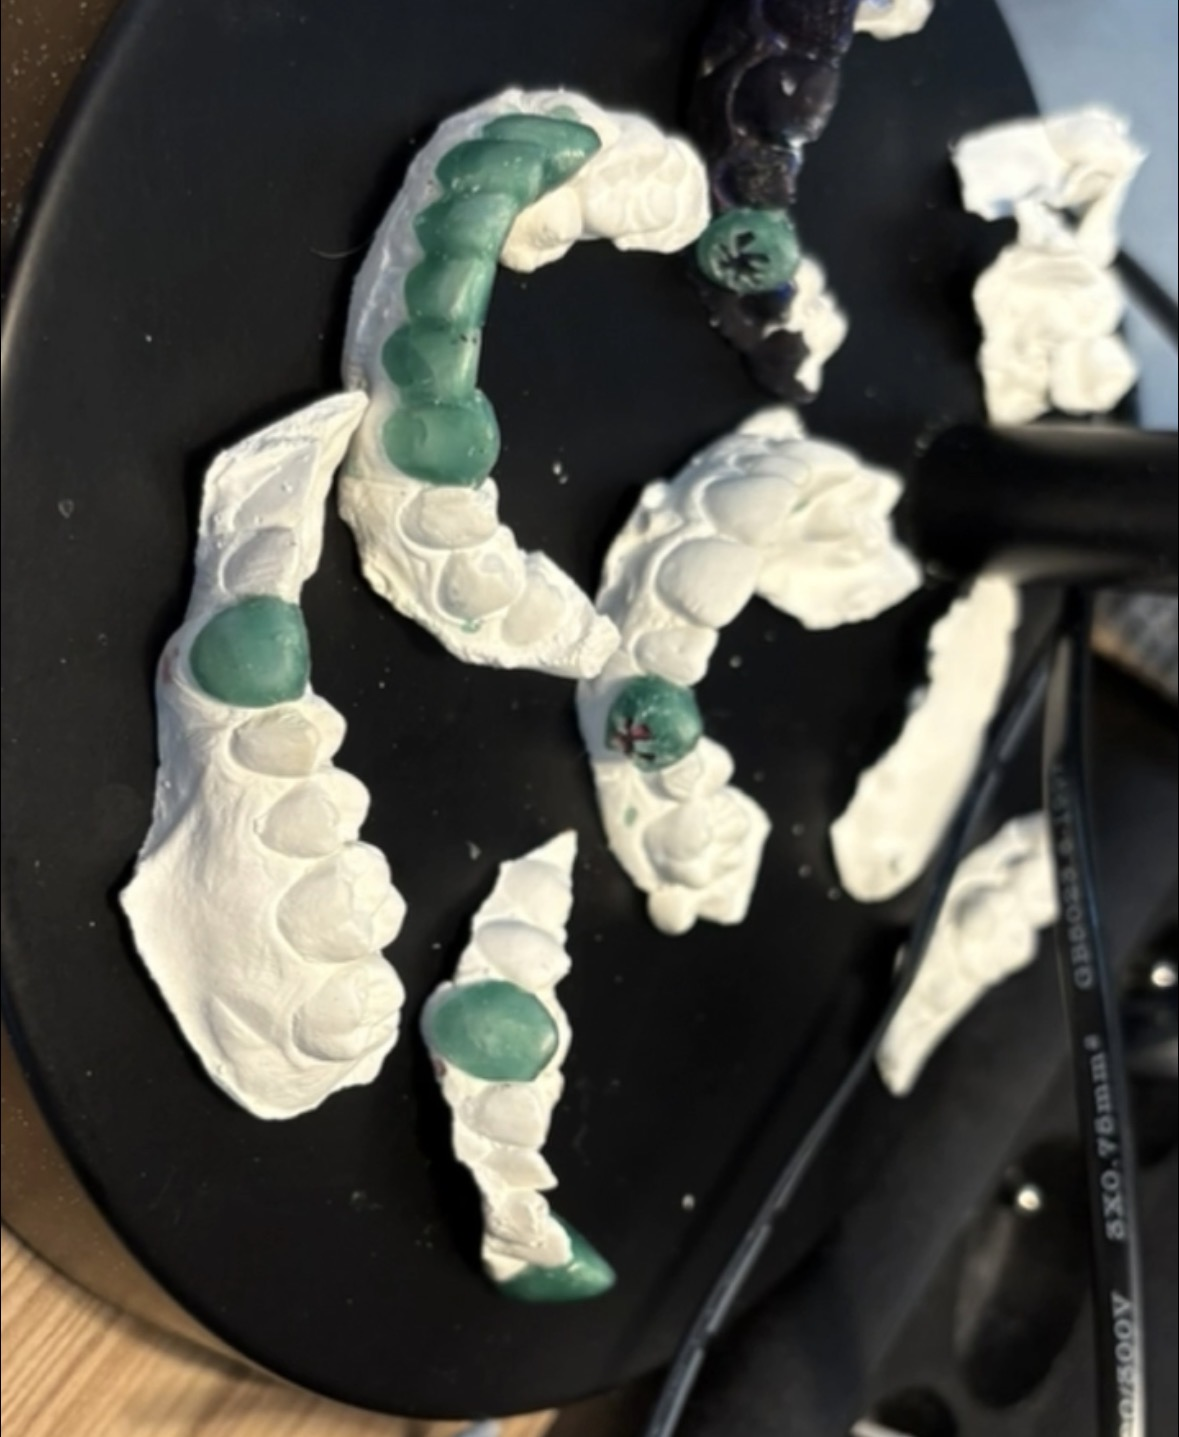
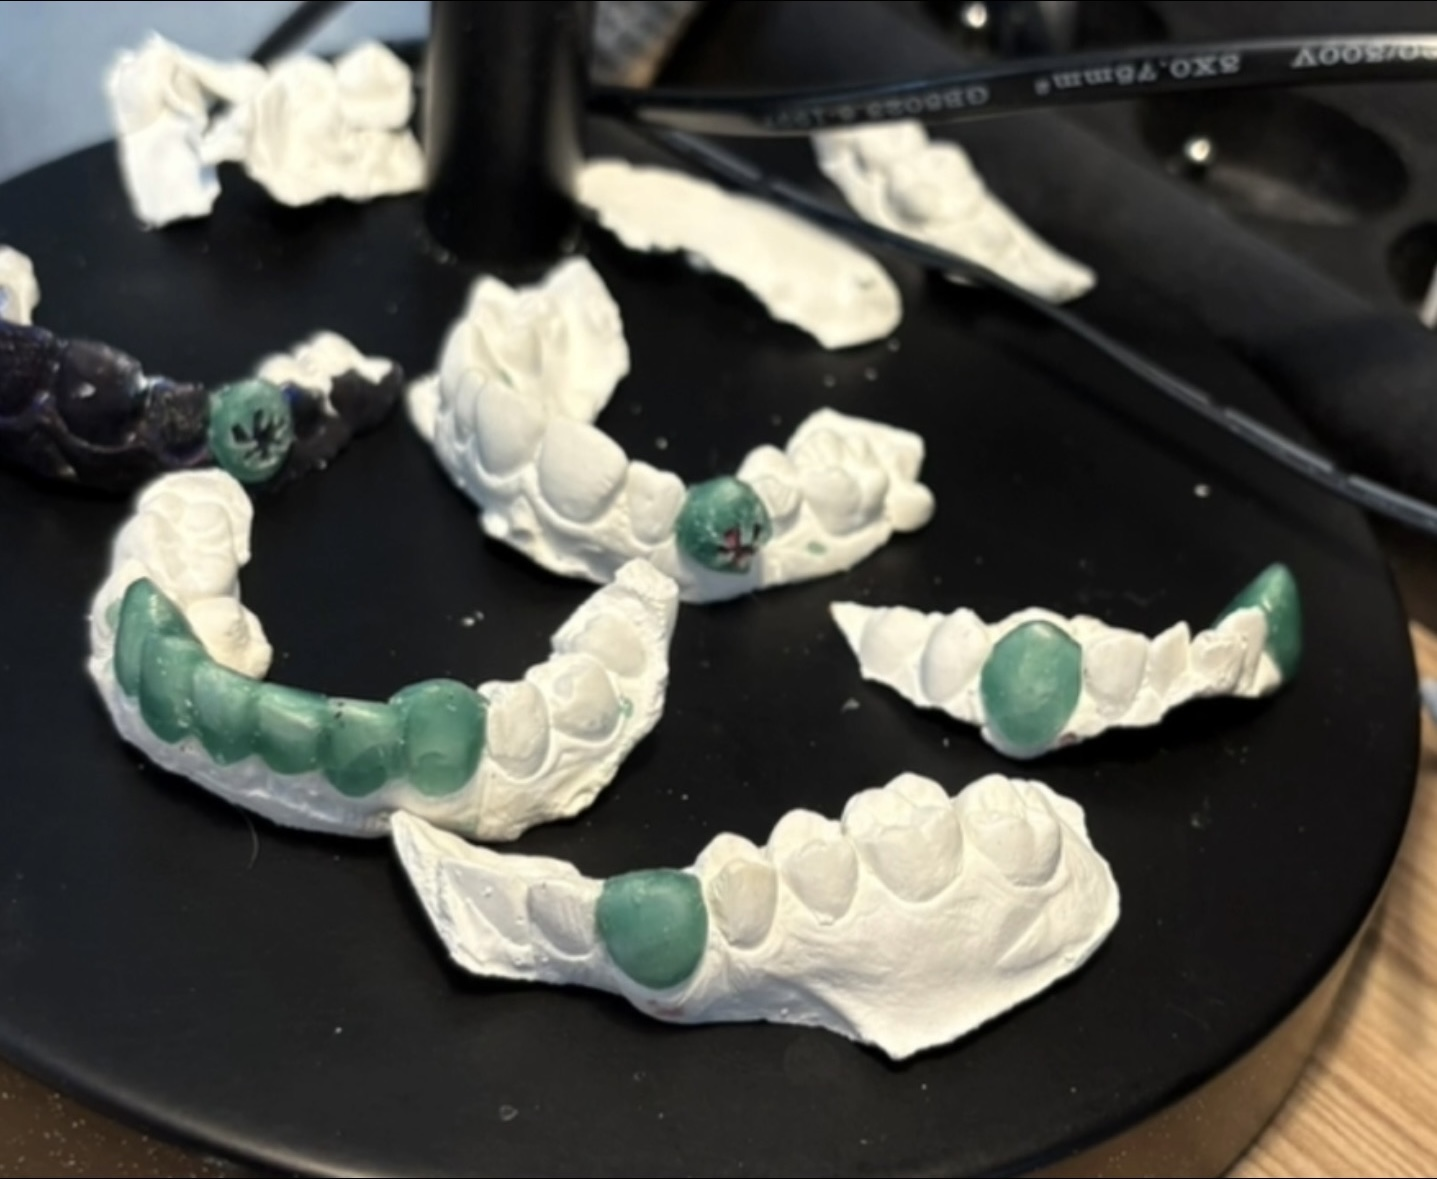
feat : ajout grillz

diff --git a/index.html b/index.html
@@ -142,10 +142,10 @@
                 </div>
                 <div class="video-card data-tilt">
                     <div class="video-wrapper">
-                        <img src="grillz6.jpg" class="video-placeholder" alt="Grillz Gold">
+                        <img src="grillz7.jpg" class="video-placeholder" alt="Grillz Gold">
                     </div>
                     <div class="video-caption">
-                        <span>Collection</span>
+                        <span>Prototype flamme</span>
                         <p>Argent 925</p>
                     </div>
                 </div>
